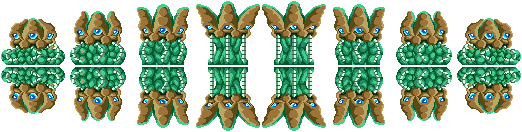
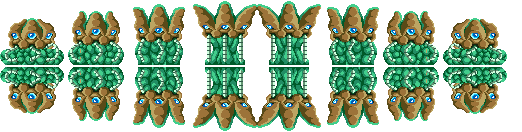
TreeResort monster added

diff --git a/SharedLibs/Entities/Monsters/TreeResort/TreeResort.cpp b/SharedLibs/Entities/Monsters/TreeResort/TreeResort.cpp
@@ -1,0 +1,48 @@
+//
+// Created by barre_k
+//
+
+#include "TreeResort.hpp"
+#include <PartitionSystem/EntityPartitionBuilder.hpp>
+
+TreeResort::TreeResort(const std::initializer_list<void *> init) : TreeResort(*GetParamFromInitializerList<uint16_t *>(init, 0),
+                                                                                    *GetParamFromInitializerList<std::shared_ptr<Timer>*>(init, 1),
+                                                                                    *GetParamFromInitializerList<std::shared_ptr<RType::EventManager>*>(init, 2),
+                                                                                    *GetParamFromInitializerList<TimeRef*>(init, 3),
+                                                                                    *GetParamFromInitializerList<vec2<float>*>(init, 4)) { }
+
+TreeResort::TreeResort(uint16_t id, std::shared_ptr<Timer> timer, std::shared_ptr<RType::EventManager> eventManager, TimeRef const &timeRef, vec2<float> const &startPosition) :
+        Entity(id, timer, eventManager), _eventListener(std::unique_ptr<RType::EventListener>(new RType::EventListener(eventManager)))
+{
+    _partition = EntityPartitionBuilder(timer, timeRef, startPosition).AddSegment(
+                    PartitionSegmentBuilder()
+                            .Begins(timeRef)
+                            .For(std::chrono::seconds(10000))
+                            .Translate(vec2<float>(0, 0)))
+            .Build();
+}
+
+void TreeResort::Cycle() {
+}
+
+vec2<float> TreeResort::GetRenderRect() {
+    return vec2<float>(4 * 256, 4 * 142);
+}
+
+vec2<float> TreeResort::GetPosition() {
+    auto pos = _partition.GetCurrentSegment(_timer->getCurrent())->getLocationVector().GetTweened();
+    return pos;
+}
+
+void TreeResort::Serialize(RType::Packer &packer) {
+    Entity::Serialize(packer);
+    _partition.Serialize(packer);
+}
+
+uint16_t TreeResort::getTypeId() const {
+    return Entity::TENTACLE_BOSS;
+}
+
+#ifndef ENTITY_DRW_CTOR
+RTYPE_ENTITY_REGISTER(TreeResort)
+#endif

diff --git a/SharedLibs/Entities/Monsters/TreeResort/GraphicTreeResort.cpp b/SharedLibs/Entities/Monsters/TreeResort/GraphicTreeResort.cpp
@@ -1,0 +1,43 @@
+//
+// Created by barre_k
+//
+
+#include "GraphicTreeResort.hpp"
+
+#define H 130
+#define L 64
+
+#ifdef ENTITY_DRW_CTOR
+RTYPE_DRAWABLE_ENTITY_REGISTER(GraphicTreeResort)
+#endif
+
+GraphicTreeResort::GraphicTreeResort(const std::initializer_list<void *> init) :
+        TreeResort(init),
+        AAnimatable()
+{
+    RegisterTrait(Trait::Drawable);
+}
+
+void GraphicTreeResort::Draw(sf::RenderTexture *rect, TextureBag &bag) {
+    if (!isTextureSetInit) {
+        isTextureSetInit = true;
+
+        std::vector<sf::IntRect> framePos;
+        framePos.push_back(sf::IntRect(L * 0, 0, L, H));
+        framePos.push_back(sf::IntRect(L * 1, 0, L, H));
+        framePos.push_back(sf::IntRect(L * 2, 0, L, H));
+        framePos.push_back(sf::IntRect(L * 3, 0, L, H));
+        framePos.push_back(sf::IntRect(L * 4, 0, L, H));
+        framePos.push_back(sf::IntRect(L * 5, 0, L, H));
+        framePos.push_back(sf::IntRect(L * 6, 0, L, H));
+        framePos.push_back(sf::IntRect(L * 7, 0, L, H));
+        setAnimation("medias/images/r-typesheet17.png", framePos, bag);
+        setLoopDuration(1500);
+        setScale(sf::Vector2f(4.0f, 4.0f));
+    }
+    updateAnimation(rect, bag);
+}
+
+void GraphicTreeResort::Cycle() {
+    TreeResort::Cycle();
+}

diff --git a/SharedLibs/Entities/Monsters/TreeResort/TreeResort.hpp b/SharedLibs/Entities/Monsters/TreeResort/TreeResort.hpp
@@ -1,0 +1,34 @@
+//
+// Created by barre_k
+//
+
+#ifndef R_TYPE_TENTACLEBOSS_HPP
+#define R_TYPE_TENTACLEBOSS_HPP
+
+#include "PartitionSystem/EntityPartition.hpp"
+#include <Time/Timer.hpp>
+#include <Base.h>
+#include <Entities/Entity.hpp>
+#include <EventDispatcher/EventManager.hpp>
+#include <EventDispatcher/EventListener.hpp>
+#include "PartitionSystem/PartitionSegmentBuilder.hpp"
+
+class TreeResort : public Entity {
+protected:
+    EntityPartition _partition = EntityPartition(_timer);
+    std::unique_ptr<RType::EventListener> _eventListener;
+
+public:
+    TreeResort(const std::initializer_list<void *> init);
+    TreeResort(uint16_t, std::shared_ptr<Timer>, std::shared_ptr<RType::EventManager>, TimeRef const &, vec2<float> const &);
+
+    uint16_t getTypeId() const override;
+
+    void Cycle() override;
+    vec2<float> GetRenderRect() override;
+    vec2<float> GetPosition() override;
+
+    void Serialize(RType::Packer &packer) override;
+};
+
+#endif //R_TYPE_TENTACLEBOSS_HPP

diff --git a/SharedLibs/Entities/Monsters/TreeResort/GraphicTreeResort.hpp b/SharedLibs/Entities/Monsters/TreeResort/GraphicTreeResort.hpp
@@ -1,0 +1,22 @@
+//
+// Created by barre_k
+//
+
+#ifndef R_TYPE_GRAPHICTENTACLEBOSS_HPP
+#define R_TYPE_GRAPHICTENTACLEBOSS_HPP
+
+#include <AAnimatable.hpp>
+#include <TextureBag.hpp>
+#include "TreeResort.hpp"
+
+class GraphicTreeResort : public TreeResort, public AAnimatable {
+
+public:
+    GraphicTreeResort(const std::initializer_list<void *> init);
+
+    void Draw(sf::RenderTexture *rect, TextureBag &) override;
+    void Cycle() override;
+};
+
+
+#endif //R_TYPE_GRAPHICTENTACLEBOSS_HPP

diff --git a/Shared/Include/Entities/Entity.hpp b/Shared/Include/Entities/Entity.hpp
@@ -24,7 +24,8 @@ public:
         SIMPLE_PROJECTILE,
         DEATH_STAR,
         MARS,
-        SHIP
+        SHIP,
+        TreeResort
     };
 
 protected:
